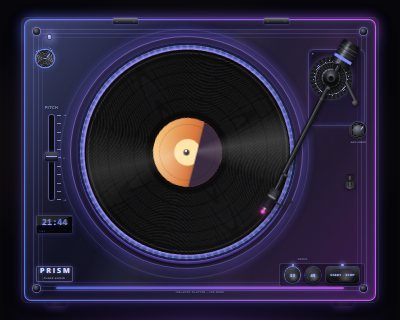
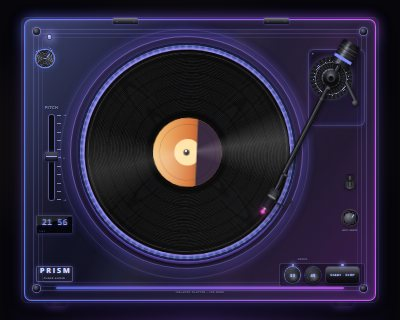
Fix text clipping: remove badge rivets, no ring through START/STOP; anti-skate dial moved clear of the frame; player reconnects after a drop

diff --git a/skins.css b/skins.css
@@ -429,7 +429,6 @@ html[data-skin="marble"] {
 [data-skin="acrylic"] .playing #tonearm .tip { filter: drop-shadow(0 0 .5px #ff4fd8) drop-shadow(0 0 1.4px #ff4fd8); }
 [data-skin="acrylic"] #plinth::after { height: calc(var(--u) * 7); left: 0; right: 0; background: linear-gradient(90deg, rgba(79,123,255,.75), rgba(140,92,255,.6) 50%, rgba(224,77,255,.75)); filter: blur(calc(var(--u) * 2)); border-radius: 0; opacity: .75; }
 [data-skin="acrylic"] #ambient { background: radial-gradient(ellipse 70% 40% at 50% 100%, rgba(150,90,255,.28), transparent 70%), radial-gradient(ellipse 80% 70% at 46% 45%, rgba(var(--amb), .22), transparent 70%), var(--room); }
-[data-skin="acrylic"] #badge::before, [data-skin="acrylic"] #badge::after { display: none; }
 
 
 /* ---------- ART DECO ---------- */
@@ -463,9 +462,7 @@ html[data-skin="marble"] {
 [data-skin="deco"] #powerknob { background: radial-gradient(circle, transparent 0 40%, rgba(0,0,0,.22) 41% 43%, transparent 44%), repeating-conic-gradient(rgba(0,0,0,.07) 0 6deg, transparent 6deg 12deg), radial-gradient(circle at 38% 30%, var(--k-hi), var(--k-mid) 58%, var(--k-lo)); }
 [data-skin="deco"] .pbtn:not(.wide)::before { box-shadow: inset 0 0 0 calc(var(--u) * .12) rgba(0,0,0,.2), 0 0 0 calc(var(--u) * .1) rgba(255,255,255,.6); }
 [data-skin="deco"] #antiskate .dial { background: repeating-conic-gradient(#d7c9a6 0 6deg, #8f8062 6deg 12deg); }
-[data-skin="deco"] .pbtn.wide::before { box-shadow: inset 0 0 0 calc(var(--u) * .12) rgba(28,20,8,.5); }
 [data-skin="deco"] #badge { box-shadow: none; filter: drop-shadow(0 calc(var(--u) * .3) calc(var(--u) * .5) rgba(0,0,0,.7)); }
-[data-skin="deco"] #badge::before, [data-skin="deco"] #badge::after { background: radial-gradient(circle at 35% 30%, #fff3c4, #7c5a1c 70%); }
 [data-skin="deco"] #pitch .slot { box-shadow: inset 0 1px 3px #000, 0 0 0 calc(var(--u) * .28) var(--gold), 0 0 0 calc(var(--u) * .48) #000, 0 0 0 calc(var(--u) * .6) rgba(201,161,74,.4); }
 [data-skin="deco"] #armbase { background: radial-gradient(circle, var(--h-lo) 0 24%, transparent 25%), conic-gradient(from 0deg, #8b9096, #fff, #7c8188, #e8e8e8, #5b6067, #f4f4f4, #8b9096); }
 [data-skin="deco"] #rim::before { box-shadow: inset 0 0 0 1px rgba(0,0,0,.35), 0 0 0 1px rgba(255,255,255,.5), 0 0 0 calc(var(--u) * .45) rgba(201,161,74,.0); }
@@ -507,7 +504,6 @@ html[data-skin="marble"] {
 [data-skin="cream"] #armbase .lift { background: linear-gradient(90deg, #0a0a0a, #4a4a4a 45%, #0a0a0a); }
 [data-skin="cream"] #armbase .lift b { background: radial-gradient(circle at 35% 30%, #5a5a5a, #1a1a1a 60%, #050505); }
 [data-skin="cream"] #armrest::before, [data-skin="cream"] #armrest::after { background: linear-gradient(90deg, #0a0a0a, #4a4a4a 45%, #0a0a0a); }
-[data-skin="cream"] #badge::before, [data-skin="cream"] #badge::after { display: none; }
 [data-skin="cream"] #plinth::after { background: radial-gradient(ellipse at 50% 0, rgba(0,0,0,.35), transparent 70%); }
 
 
@@ -546,7 +542,6 @@ html[data-skin="marble"] {
 [data-skin="dj"] #armbase .scale { background: repeating-conic-gradient(rgba(255,60,60,.9) 0 .8deg, transparent .8deg 5deg); }
 [data-skin="dj"] #armbase .hub { background: radial-gradient(circle, transparent 0 66%, rgba(0,0,0,.5) 67% 70%, transparent 71%), repeating-radial-gradient(circle, rgba(255,255,255,.2) 0 calc(var(--u) * .12), rgba(0,0,0,.2) calc(var(--u) * .12) calc(var(--u) * .24)), radial-gradient(circle at 35% 30%, #d9dadc, #8a8d91 60%, #3b3e42); }
 [data-skin="dj"] .playing #tonearm .tip { filter: drop-shadow(0 0 .5px #ff3030) drop-shadow(0 0 1.3px #ff2020); }
-[data-skin="dj"] #badge::before, [data-skin="dj"] #badge::after { display: none; }
 
 
 /* ---------- MARBLE ---------- */
@@ -569,7 +564,6 @@ html[data-skin="marble"] {
 [data-skin="marble"] .foot { background: linear-gradient(90deg, #6e4f1c, #fcefc4 40%, #8c6f30); }
 [data-skin="marble"] #armbase { background: radial-gradient(circle, #14110d 0 24%, transparent 25%), conic-gradient(from 0deg, #a8863a, #fcefc4, #b8903f, #f3dc98, #8c6f30, #fcefc4, #a8863a); }
 [data-skin="marble"] #armbase .scale { background: repeating-conic-gradient(rgba(60,40,10,.7) 0 .7deg, transparent .7deg 5deg); }
-[data-skin="marble"] #badge::before, [data-skin="marble"] #badge::after { background: radial-gradient(circle at 35% 30%, #fff3c4, #7c5a1c 70%); }
 [data-skin="marble"] #armrest i { border-color: #26211a; }
 /* daylight through a window: leaf shadows and soft light on the table */
 [data-skin="marble"] #ambient { background: radial-gradient(ellipse 80% 70% at 46% 45%, rgba(255,255,255,.55), transparent 70%), linear-gradient(135deg, #efebe4, #dcd7cf); }

diff --git a/style.css b/style.css
@@ -282,10 +282,10 @@ body.lidoff #lid { opacity: 0; transform: translateY(calc(var(--u) * -1.2)); }
 #led::after { content: ""; position: absolute; left: 20%; top: 14%; width: 38%; height: 30%; border-radius: 50%; background: rgba(255,255,255,.5); filter: blur(.5px); }
 #vfd::after { content: ""; position: absolute; inset: 0; pointer-events: none;
   background: linear-gradient(165deg, rgba(255,255,255,.11) 0 38%, transparent 39%), repeating-linear-gradient(0deg, rgba(0,0,0,.28) 0 1px, transparent 1px calc(var(--u) * .3)); }
-#badge::before, #badge::after { content: ""; position: absolute; top: 50%; width: calc(var(--u) * .5); height: calc(var(--u) * .5); margin-top: calc(var(--u) * -.25); border-radius: 50%;
-  background: radial-gradient(circle at 35% 30%, rgba(255,255,255,.75), rgba(0,0,0,.45) 72%); }
-#badge::before { left: calc(var(--u) * .7); } #badge::after { right: calc(var(--u) * .7); }
-
 /* the plinth casts a soft coloured glow onto the table it stands on */
 #plinth::after { left: 4%; right: 4%; top: 100%; bottom: auto; height: calc(var(--u) * 5); inset: auto; border-radius: 50%; z-index: -1;
   background: radial-gradient(ellipse at 50% 0, rgba(var(--amb), .3), transparent 70%); filter: blur(calc(var(--u) * 1)); }
+
+.pbtn.wide::before { inset: 0; box-shadow: none; background: linear-gradient(180deg, rgba(255,255,255,.22), transparent 45%, rgba(0,0,0,.12)); }
+/* anti-skate dial: lower and further from the frame */
+#antiskate { left: calc(var(--u) * 90); top: calc(var(--u) * 54); }

diff --git a/app.js b/app.js
@@ -518,12 +518,13 @@ function startPlayer() {
     getOAuthToken: cb => getToken().then(cb).catch(e => toast(e.message)) });
   S.player = p;
   p.addListener('ready', ({ device_id }) => { S.deviceId = device_id; });
-  p.addListener('not_ready', () => { S.deviceId = null; });
+  p.addListener('not_ready', () => { S.deviceId = null; setTimeout(() => S.player && !S.deviceId && S.player.connect(), 2500); }); // reconnect after a drop
   p.addListener('player_state_changed', onState);
   p.addListener('initialization_error', e => toast('Player: ' + e.message));
   p.addListener('authentication_error', e => { toast('Login problem: ' + e.message); store.del('auth'); showConnect(); });
   p.addListener('account_error', () => toast('Spotify Premium is required to play music here'));
   p.addListener('playback_error', e => toast('Playback: ' + e.message));
+  document.addEventListener('visibilitychange', () => { if (document.visibilityState === 'visible' && !S.deviceId) p.connect(); }); // coming back from the Home Screen / lock screen
   p.connect();
 }
 
